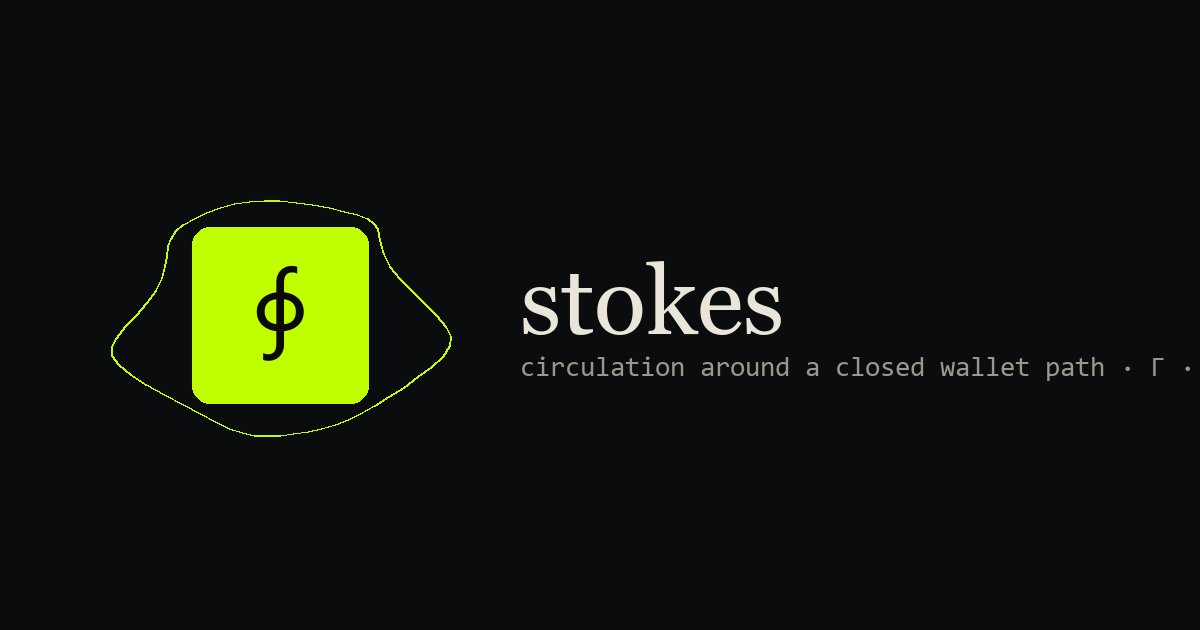
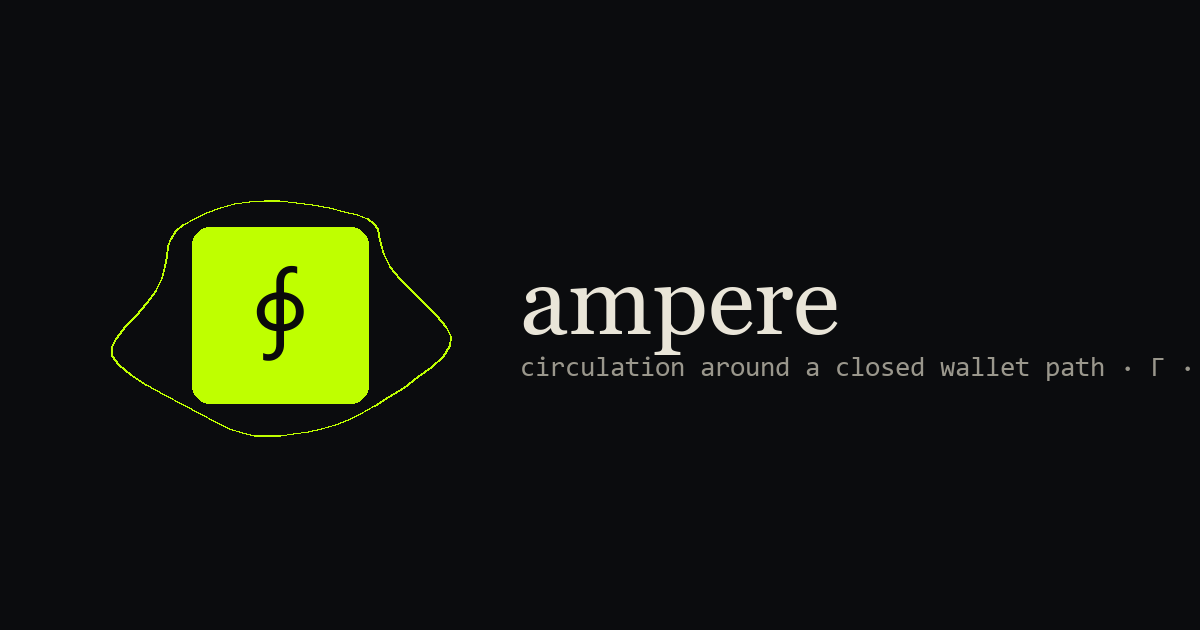
Rename brand to Ampere and rewrite narrative in Mark voice

Changed region(s): [[0.4317, 0.3921, 0.7092, 0.573]]

diff --git a/index.html b/index.html
@@ -3,19 +3,19 @@
 <head>
   <meta charset="UTF-8" />
   <meta name="viewport" content="width=device-width, initial-scale=1" />
-  <title>stokes — signed circulation around a closed wallet path</title>
-  <meta name="description" content="Stokes keeps the signed circulation of a closed wallet path. One step, append-only. The reading is the product. The token is a flag — not wired to the math." />
+  <title>ampere — signed circulation around a closed wallet path</title>
+  <meta name="description" content="Ampere keeps the signed circulation of a closed wallet path. One step, append-only. The reading is the product. The token is a flag — not wired to the math." />
   <meta name="theme-color" content="#0b0c0e" />
   <link rel="icon" href="assets/favicon.png" type="image/png" />
   <link rel="icon" href="assets/logo.svg" type="image/svg+xml" />
   <link rel="apple-touch-icon" href="assets/logo.png" />
-  <meta property="og:title" content="stokes — signed circulation around a closed wallet path" />
-  <meta property="og:description" content="Stokes keeps the signed circulation of a closed wallet path. The reading is the product. Token = flag — not wired to the math." />
+  <meta property="og:title" content="ampere — signed circulation around a closed wallet path" />
+  <meta property="og:description" content="Ampere keeps the signed circulation of a closed wallet path. The reading is the product. Token = flag — not wired to the math." />
   <meta property="og:type" content="website" />
   <meta property="og:image" content="assets/og.png" />
   <meta property="og:url" content="" />
   <meta name="twitter:card" content="summary_large_image" />
-  <meta name="twitter:title" content="stokes — signed circulation around a closed wallet path" />
+  <meta name="twitter:title" content="ampere — signed circulation around a closed wallet path" />
   <meta name="twitter:description" content="Signed circulation around a closed wallet path. The reading is the product. Token = flag — not wired to the math." />
   <meta name="twitter:image" content="assets/og.png" />
   <link rel="canonical" href="" />
@@ -31,7 +31,7 @@
   <header class="topbar mono">
     <a class="top-brand" href="#/" data-nav="manuscript">
       <img class="brand-mark" src="assets/logo.png" width="22" height="22" alt="" />
-      stokes
+      ampere
     </a>
     <nav class="top-links" aria-label="Site">
       <a href="#/" data-nav="manuscript">manuscript</a>
@@ -58,7 +58,7 @@
     <aside class="toc" aria-label="Contents">
       <div class="brand">
         <img class="brand-mark" src="assets/logo.png" width="28" height="28" alt="" />
-        <b>stokes</b>
+        <b>ampere</b>
       </div>
       <p class="lbl">Manuscript</p>
       <nav class="orbit">
@@ -86,7 +86,7 @@
           <span class="dot">·</span>
           <a href="#/note" data-overlay="overlay-note">from the drafter</a>
         </p>
-        <h1 class="name">stokes</h1>
+        <h1 class="name">ampere</h1>
         <p class="tagline mono">signed circulation around a closed wallet path</p>
 
         <div class="instrument" aria-label="Illustrative circulation instrument">
@@ -108,7 +108,7 @@
       <section id="what">
         <h2>01 / 10 · What this is</h2>
         <p>
-          Stokes is a page that keeps a count. Take an address as a boundary. Reconstruct a closed
+          Ampere is a page that keeps a count. Take an address as a boundary. Reconstruct a closed
           path of counterparties and transfers over a fixed window. Walk the path segment by
           segment. At every step, add the signed area element
           <span class="mono">½ (x dy − y dx)</span>
@@ -124,15 +124,16 @@
       <section id="costume">
         <h2>02 / 10 · The costume</h2>
         <p>
-          For a few years now I have watched wallet pages sell the same costume. A balance that
-          pretends a boundary is a pile. A PnL chart that flattens a loop into a score. A gallery
-          of pictures the address once touched, arranged as if contact were comprehension.
+          For a few years now I have watched every wallet page repeat the one before it. A balance
+          that pretends a boundary is a pile. A PnL chart that flattens a loop into a score. A
+          gallery of pictures the address once touched, arranged as if contact were comprehension.
           The pitch never really changes. You open a tab, you watch numbers move, and you tell
           yourself you have read the wallet.
         </p>
         <p>
           Something about that shape always bothered me. The thing being measured was almost never
-          the thing that actually closed. The costume looked finished. The loop did not.
+          the thing that actually closed. The costume looked finished. The loop did not. There is
+          nothing lasting in a score that forgets the path the moment the UI looks away.
         </p>
       </section>
 
@@ -150,47 +151,49 @@
           on top of it? No bolt between story and mechanism. One object, two languages: the
           sentence that says what is being kept, and the step that appends it.
         </p>
-        <p>Stokes is the answer I kept arriving at.</p>
+        <p>Ampere is the answer I kept arriving at.</p>
       </section>
 
       <section id="name">
         <h2>04 / 10 · On the name</h2>
         <p>
-          George Gabriel Stokes spent the middle of the nineteenth century writing equations that
-          refused to decorate themselves. The result that carries his name is simple enough to say
-          out loud: the circulation of a field around a closed curve equals the flux of its curl
-          through any surface that curve bounds. The boundary knows the interior. The loop knows
-          the sheet. Nothing in the statement asks you to believe a narrative. It asks you to
-          finish the integral.
+          André-Marie Ampère spent the early nineteenth century writing laws that treated current
+          as something a closed path already knows. Circulating charge around a loop produces a
+          field; the loop and the field answer to each other. Nothing in that statement asks you
+          to believe a costume. It asks you to finish the integral around the wire.
         </p>
         <p>
-          That is the whole reason for the name. Not because a wallet is a fluid, and not because
-          markets are Maxwellian, but because the honest object is already a closed path — and the
-          honest measurement is the circulation around it. Stokes did not invent the flow. He
-          named the equality that was always there.
+          That is the whole reason for the name. Not because a wallet is a circuit board, and not
+          because markets are Maxwellian, but because the honest object is already a closed path —
+          and the honest measurement is the circulation around it. Ampère did not invent the flow.
+          He named a relationship that was always there. This page keeps the same kind of count
+          for trade paths: signed, append-only, recomputable.
         </p>
       </section>
 
       <section id="geometry">
         <h2>05 / 10 · Circulation, not costume</h2>
         <p>
-          Walk a closed curve on a surface. Sum the tangential pull along the edge. That sum is
-          the circulation. It does not care how fast you walked. It cares which way the field
-          wound, and how much area the winding enclosed in the signed sense. Curl on the sheet
-          and circulation on the rim are the same fact written twice. That is the load-bearing
-          honesty of the theorem: you cannot decorate one side without answering to the other.
+          <span class="live mono">On the idea.</span>
+          Walk a closed curve. Sum the tangential pull along the edge. That sum is the
+          circulation. It does not care how fast you walked. It cares which way the field wound,
+          and how much area the winding enclosed in the signed sense. The rim and the sheet are
+          the same fact written twice. You cannot decorate one side without answering to the other.
         </p>
         <p>
           A wallet path works the same way. Plot counterparties and transfers as points in a
           plane the procedure fixes. Connect them in time order. Close the window — or fail to,
           which is itself a scar. Each edge contributes a signed triangle with the origin of the
           shoelace step. The running total is Γ. Most portfolio theater throws that total away and
-          sells you a costume instead. Stokes keeps it.
+          sells you a costume instead. Ampere keeps it.
         </p>
         <p>
-          Most tokens are a story bolted onto a supply curve, and the bolt is where they break.
-          Stokes has no bolt. The story — keep the running circulation of a closed wallet path —
-          and the instrument — append each signed segment as it arrives — are the same object.
+          <span class="live mono">On the economics.</span>
+          I wanted the reading to be honest by construction rather than by moderation. Most tokens
+          are a story bolted onto a supply curve, and the bolt is where they break. Ampere has no
+          bolt. The story — keep the running circulation of a closed wallet path — and the
+          instrument — append each signed segment as it arrives — are the same object. If the
+          answer is not derivable from the path and the step, it is not part of the instrument.
         </p>
       </section>
 
@@ -211,7 +214,7 @@
           reports the number.
         </p>
         <p>
-          Stokes does not grade these shapes with adjectives. Open the
+          Ampere does not grade these shapes with adjectives. Open the
           <a href="#/instrument" data-nav="instrument">instrument</a>
           and scrub the regimes yourself. The integral is the grade.
         </p>
@@ -221,10 +224,11 @@
         <h2>07 / 10 · How the measurement runs</h2>
         <p>
           The instrument is this page. Today the path is illustrative geometry you can drive with
-          your hands — seed, pressure, regime — so the shape of the count is visible before live
-          ingestion lands. At genesis the same procedure points at public chain state anyone else
-          can read: reconstruct the boundary’s closed path over the window, walk the segments in
-          order, append the shoelace step, draw Γ.
+          your hands — seed, pressure, regime — so you can see the true shape of the thing before
+          live ingestion lands. The desk shows sample telemetry and says so in plain text. At
+          genesis the same procedure points at public chain state anyone else can read:
+          reconstruct the boundary’s closed path over the window, walk the segments in order,
+          append the shoelace step, draw Γ.
         </p>
         <p>
           There is no private feed in the claim, no curated mirror that gets to edit the night.
@@ -236,9 +240,9 @@
           marketing claim. It is the product wearing its insides on the outside.
         </p>
         <p>
-          If the answer someone wants is not derivable from the path and this step, the answer
-          they want is not part of the instrument. Upgrade authority: none intended. Keys: not a
-          feature of the reading.
+          Upgrade authority: none intended. Keys: not a feature of the reading. What you open at
+          the start is not a finished protocol. It is the first observers in a count that does
+          not exist without people who keep looking.
         </p>
       </section>
 
@@ -267,14 +271,17 @@
         </p>
         <p>
           The float does not move the circulation. The page does not invent it. Observers keep
-          the count. Early holders, if any, are first mass in the field — first people looking
-          through the glass — not owners of a finished protocol utility that does not exist yet.
+          the count. Early holders, if any, are first observers through the glass — first mass
+          looking at a field that is still being built — not owners of a finished protocol
+          utility that does not exist yet. The token launches as a flag. The engine of the
+          reading is what gets built on top of that honesty.
         </p>
       </section>
 
       <section id="honesty">
         <h2>10 / 10 · On honesty</h2>
         <p>
+          <span class="live mono">On honesty.</span>
           Let me be plain about where this stands today. The gauge on this manuscript is
           illustrative — projected geometry so you can see the true shape of the thing. The
           instrument view lets you drive that geometry with your hands. Live path ingestion from
@@ -282,13 +289,11 @@
           is financial advice, and nothing here claims finished, audited infrastructure.
         </p>
         <p>
-          What you open at the start is not a promise dressed as a protocol. It is a desk pointed
-          at closed paths. That is the honest version of the pitch. If the idea of being shown
-          the wind rather than sold a costume lands with you, then you are the person this page
-          was drafted for.
+          That is the honest version of the pitch. If the idea of being shown the wind rather
+          than sold a costume lands with you, then you are the person I built this for.
         </p>
         <p>
-          The paper is the map. The path is the territory.
+          The paper below is the map. Come help me build the territory.
           <a href="#/note" data-overlay="overlay-note">Read the drafter’s note</a>,
           or <a href="#/instrument" data-nav="instrument">keep the count yourself</a>.
         </p>
@@ -369,7 +374,7 @@
         <p>
           Each regime is a different lie a loop can tell. Drift keeps Γ near a living wind. Wash
           spins hard and cancels. Drain refuses to close and leaves a scar. Whale straightens the
-          geometry until the wind looks polite and false. Stokes does not grade them with
+          geometry until the wind looks polite and false. Ampere does not grade them with
           adjectives. It keeps the integral — the same step the manuscript teaches and the source
           overlay prints.
         </p>
@@ -388,7 +393,7 @@
         It is the equality the rest of the page is built to protect — the product with its
         insides on the outside.
       </p>
-      <pre class="code mono" tabindex="0"><code><span class="c">// Stokes — circulation step (shoelace segment)</span>
+      <pre class="code mono" tabindex="0"><code><span class="c">// Ampere — circulation step (shoelace segment)</span>
 <span class="c">// Γ_{n+1} = Γ_n + ½ (x_n y_{n+1} − x_{n+1} y_n)</span>
 
 <span class="k">function</span> <span class="n">stepGamma</span>(G, x0, y0, x1, y1) {
@@ -419,17 +424,17 @@
       <h2 class="overlay-title">From the drafter</h2>
       <p>
         I want to be plain about what this is and what it is not, because the honest version is
-        more interesting than the hyped one. Stokes is a small idea on purpose. It is not a
+        more interesting than the hyped one. Ampere is a small idea on purpose. It is not a
         company with a roadmap suite. It is a desk that keeps a circulation count for closed
         wallet paths, and a manuscript that refuses to bolt a costume onto that count.
       </p>
       <p>
         What is here now is enough to see the thought run and to argue with it: the teaching
-        spine, the instrument, the step in source. I am not going to dress it up as audited,
-        mainnet-hardened infrastructure, because it isn’t, and pretending otherwise would break
-        the one promise the whole thing is about. If it is wrong, it should be easy to show that
-        in a console. If there is something here, it should be easy to build the next thing on
-        top of it — deeper, in the open.
+        spine, the instrument, the step in source. The gauge shows sample telemetry and says so
+        in plain text, because I would rather show you the true shape of the thing than dress up
+        a network that is not live yet. If it is wrong, it should be easy to show that in a
+        console. If there is something here, it should be easy to build the next thing on top of
+        it — deeper, in the open.
       </p>
       <p>
         I am not going to tell you this is inevitable or that it wins. I genuinely don’t know.
@@ -440,8 +445,8 @@
         staying in.
       </p>
       <p>
-        That is the honest deal, and it is the only one on offer. The paper is the map. Come
-        help build the territory.
+        That is the honest version of the pitch. The paper is the map. Come help me build the
+        territory.
       </p>
     </div>
   </div>

diff --git a/tools/gen-assets.py b/tools/gen-assets.py
@@ -1,4 +1,4 @@
-"""Generate stokes PNG assets from brand spec (Pillow)."""
+"""Generate ampere PNG assets from brand spec (Pillow)."""
 from __future__ import annotations
 
 from pathlib import Path
@@ -115,7 +115,7 @@ def draw_og() -> Image.Image:
     # Wordmark + subtitle
     title_font = _font(True, 96)
     sub_font = _font(False, 28)
-    title = "stokes"
+    title = "ampere"
     subtitle = "circulation around a closed wallet path · Γ · 2π"
 
     tx = 520

diff --git a/README.md b/README.md
@@ -1,4 +1,4 @@
-# stokes
+# ampere
 
 Static desk: manuscript + instrument. The reading is the product. Token = flag — not wired to the math.
 
@@ -8,13 +8,12 @@ Open `index.html` in a browser (or any static host root = this folder).
 
 ## Launch fill-in
 
-Edit the bootstrap `window.STOKES` object in `index.html` (or set it before `main.js`):
+Edit the bootstrap `window.STOKES` object in `index.html` (or set it before `main.js` — config key kept for compatibility):
 
-- `siteUrl` — origin with no trailing slash, e.g. `https://stokes.example`
+- `siteUrl` — origin with no trailing slash, e.g. `https://ampere.example`
 - `xUrl` — full X profile URL
 - `ca` — mint address
 - `caShort` — optional display trunc; empty = auto
 - `gmgnUrl` — optional chart link for the CA slot
 
 Leave fields empty until real. Empty ⇒ honest TBA chrome, no fake links.
-"# stokes" 
